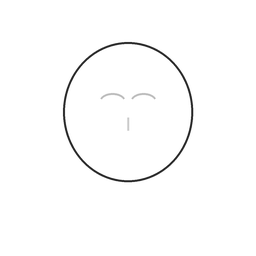
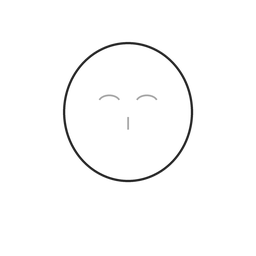
feat(assets): 生成 14 张面部素材（脸型 2、嘴 7、眼镜 5）
- 新增 scripts/make_face_assets.py：几何风格、2 倍超采样、可着色一律白底
- 脸型与嘴自动补 _tint.png 蒙版；眼镜不可着色，颜色写死
- 缩略图同步生成
- 测试里写死的素材张数改成按目录动态计算
- 快照基准因肤色素材变化重新生成

diff --git a/scripts/make_face_assets.py b/scripts/make_face_assets.py
@@ -1,0 +1,219 @@
+"""生成 E 负责的面部与服饰素材（脸型 / 嘴 / 眼镜）。
+
+这些是**几何风格的正式素材**，不是占位图：坐标按 1024 画布对齐脸中心 (512, 448)，
+可着色槽位一律白色打底（渲染时相乘上色不会发灰），并自动生成同名 `_tint.png` 蒙版。
+
+用法（项目根目录）：
+
+    python scripts/make_face_assets.py
+"""
+
+from __future__ import annotations
+
+from pathlib import Path
+
+from PIL import Image, ImageDraw
+
+CANVAS = 1024
+S = 2                                   # 超采样倍数，用来消除锯齿
+BIG = CANVAS * S
+
+INK = (40, 40, 40, 255)
+PAPER = (255, 255, 255, 255)
+SOFT = (168, 168, 168, 255)
+DARK = (43, 43, 43, 255)
+
+FACE_CENTER = (512, 448)
+
+
+def canvas() -> tuple[Image.Image, ImageDraw.ImageDraw]:
+    image = Image.new("RGBA", (BIG, BIG), (0, 0, 0, 0))
+    return image, ImageDraw.Draw(image)
+
+
+def box(x0: int, y0: int, x1: int, y1: int) -> tuple[int, int, int, int]:
+    """把 1024 坐标换算成超采样坐标。"""
+    return (x0 * S, y0 * S, x1 * S, y1 * S)
+
+
+def line_width(value: int) -> int:
+    return value * S
+
+
+def finish(image: Image.Image) -> Image.Image:
+    return image.resize((CANVAS, CANVAS), Image.LANCZOS)
+
+
+# --------------------------------------------------------------------------- #
+# 脸型：白色打底 + 灰阶五官，肤色靠渲染时相乘
+# --------------------------------------------------------------------------- #
+def draw_face(radius_x: int, radius_y: int) -> Image.Image:
+    image, draw = canvas()
+    cx, cy = FACE_CENTER
+
+    face = box(cx - radius_x, cy - radius_y, cx + radius_x, cy + radius_y)
+    draw.ellipse(face, fill=PAPER, outline=INK, width=line_width(9))
+
+    # 简化眉
+    draw.arc(box(cx - 120, cy - 70, cx - 30, cy - 10), start=200, end=340,
+             fill=SOFT, width=line_width(7))
+    draw.arc(box(cx + 30, cy - 70, cx + 120, cy - 10), start=200, end=340,
+             fill=SOFT, width=line_width(7))
+
+    # 简化鼻
+    draw.line([(cx * S, (cy + 20) * S), (cx * S, (cy + 70) * S)], fill=SOFT, width=line_width(7))
+
+    return finish(image)
+
+
+def draw_skin_base() -> Image.Image:
+    return draw_face(radius_x=260, radius_y=280)
+
+
+def draw_skin_slim() -> Image.Image:
+    return draw_face(radius_x=220, radius_y=290)
+
+
+# --------------------------------------------------------------------------- #
+# 嘴：7 种，白色打底（可着色）
+# --------------------------------------------------------------------------- #
+def draw_mouth_smile() -> Image.Image:
+    image, draw = canvas()
+    draw.arc(box(452, 560, 572, 650), start=20, end=160, fill=INK, width=line_width(9))
+    return finish(image)
+
+
+def draw_mouth_laugh() -> Image.Image:
+    image, draw = canvas()
+    draw.chord(box(462, 556, 562, 646), start=0, end=180, fill=PAPER, outline=INK,
+               width=line_width(9))
+    return finish(image)
+
+
+def draw_mouth_small() -> Image.Image:
+    image, draw = canvas()
+    draw.ellipse(box(492, 584, 532, 616), fill=PAPER, outline=INK, width=line_width(8))
+    return finish(image)
+
+
+def draw_mouth_pout() -> Image.Image:
+    image, draw = canvas()
+    draw.arc(box(470, 596, 554, 668), start=200, end=340, fill=INK, width=line_width(9))
+    return finish(image)
+
+
+def draw_mouth_tongue() -> Image.Image:
+    image, draw = canvas()
+    draw.chord(box(468, 560, 556, 640), start=0, end=180, fill=PAPER, outline=INK,
+               width=line_width(8))
+    draw.ellipse(box(486, 600, 538, 650), fill=SOFT, outline=INK, width=line_width(6))
+    return finish(image)
+
+
+def draw_mouth_cat() -> Image.Image:
+    image, draw = canvas()
+    draw.arc(box(462, 576, 512, 626), start=0, end=180, fill=INK, width=line_width(8))
+    draw.arc(box(512, 576, 562, 626), start=0, end=180, fill=INK, width=line_width(8))
+    return finish(image)
+
+
+def draw_mouth_flat() -> Image.Image:
+    image, draw = canvas()
+    draw.line([(478 * S, 604 * S), (546 * S, 604 * S)], fill=INK, width=line_width(9))
+    return finish(image)
+
+
+# --------------------------------------------------------------------------- #
+# 眼镜：5 副，不可着色，颜色写死
+# --------------------------------------------------------------------------- #
+EYE_Y = 500
+
+
+def draw_glasses_round() -> Image.Image:
+    image, draw = canvas()
+    for cx in (430, 594):
+        draw.ellipse(box(cx - 62, EYE_Y - 50, cx + 62, EYE_Y + 50), outline=DARK,
+                     width=line_width(10))
+    draw.line([(492 * S, EYE_Y * S), (532 * S, EYE_Y * S)], fill=DARK, width=line_width(10))
+    draw.line([(368 * S, EYE_Y * S), (300 * S, (EYE_Y - 20) * S)], fill=DARK, width=line_width(8))
+    draw.line([(656 * S, EYE_Y * S), (724 * S, (EYE_Y - 20) * S)], fill=DARK, width=line_width(8))
+    return finish(image)
+
+
+def draw_glasses_square() -> Image.Image:
+    image, draw = canvas()
+    for cx in (430, 594):
+        draw.rounded_rectangle(box(cx - 68, EYE_Y - 46, cx + 68, EYE_Y + 46), radius=18 * S,
+                               outline=DARK, width=line_width(10))
+    draw.line([(498 * S, EYE_Y * S), (526 * S, EYE_Y * S)], fill=DARK, width=line_width(10))
+    return finish(image)
+
+
+def draw_glasses_sun() -> Image.Image:
+    image, draw = canvas()
+    for cx in (430, 594):
+        draw.rounded_rectangle(box(cx - 68, EYE_Y - 46, cx + 68, EYE_Y + 46), radius=16 * S,
+                               fill=(30, 30, 30, 235), outline=DARK, width=line_width(10))
+    draw.line([(498 * S, EYE_Y * S), (526 * S, EYE_Y * S)], fill=DARK, width=line_width(10))
+    return finish(image)
+
+
+def draw_glasses_half() -> Image.Image:
+    image, draw = canvas()
+    for cx in (430, 594):
+        draw.arc(box(cx - 66, EYE_Y - 50, cx + 66, EYE_Y + 30), start=180, end=360,
+                 fill=DARK, width=line_width(10))
+        draw.line([((cx - 66) * S, EYE_Y * S), ((cx + 66) * S, EYE_Y * S)], fill=DARK,
+                  width=line_width(8))
+    return finish(image)
+
+
+def draw_glasses_goggle() -> Image.Image:
+    image, draw = canvas()
+    draw.rounded_rectangle(box(340, EYE_Y - 58, 684, EYE_Y + 52), radius=28 * S,
+                           outline=DARK, width=line_width(11))
+    draw.line([(340 * S, EYE_Y * S), (286 * S, (EYE_Y - 14) * S)], fill=DARK, width=line_width(10))
+    draw.line([(684 * S, EYE_Y * S), (738 * S, (EYE_Y - 14) * S)], fill=DARK, width=line_width(10))
+    return finish(image)
+
+
+# --------------------------------------------------------------------------- #
+# 清单与输出
+# --------------------------------------------------------------------------- #
+#: 相对 assets/ 的路径 -> (绘制函数, 是否需要 tint 蒙版)
+TARGETS: dict[str, tuple] = {
+    "01_skin/skin_base.png": (draw_skin_base, True),
+    "01_skin/skin_slim.png": (draw_skin_slim, True),
+    "07_mouth/mouth_smile_01.png": (draw_mouth_smile, True),
+    "07_mouth/mouth_laugh_01.png": (draw_mouth_laugh, True),
+    "07_mouth/mouth_small_01.png": (draw_mouth_small, True),
+    "07_mouth/mouth_pout_01.png": (draw_mouth_pout, True),
+    "07_mouth/mouth_tongue_01.png": (draw_mouth_tongue, True),
+    "07_mouth/mouth_cat_01.png": (draw_mouth_cat, True),
+    "07_mouth/mouth_flat_01.png": (draw_mouth_flat, True),
+    "09_glasses/glasses_round_01.png": (draw_glasses_round, False),
+    "09_glasses/glasses_square_01.png": (draw_glasses_square, False),
+    "09_glasses/glasses_sun_01.png": (draw_glasses_sun, False),
+    "09_glasses/glasses_half_01.png": (draw_glasses_half, False),
+    "09_glasses/glasses_goggle_01.png": (draw_glasses_goggle, False),
+}
+
+
+def main() -> int:
+    root = Path(__file__).resolve().parents[1] / "assets"
+    for relative, (factory, needs_tint) in TARGETS.items():
+        path = root / relative
+        path.parent.mkdir(parents=True, exist_ok=True)
+        factory().save(path, optimize=True)
+        size_kb = path.stat().st_size / 1024
+        print(f"已生成 assets/{relative}  ({size_kb:.1f} KB)")
+
+        if needs_tint:
+            mask = path.with_name(f"{path.stem}_tint.png")
+            Image.new("RGBA", (CANVAS, CANVAS), (255, 255, 255, 255)).save(mask)
+    print(f"共 {len(TARGETS)} 张素材")
+    return 0
+
+
+if __name__ == "__main__":
+    raise SystemExit(main())

diff --git a/tests/test_app.py b/tests/test_app.py
@@ -8,7 +8,8 @@ from __future__ import annotations
 import pytest
 
 from diyface import __version__
-from diyface.app import api_default_recipe, api_manifest, app, healthz, index
+from diyface.app import ASSETS_DIR, api_default_recipe, api_manifest, app, healthz, index
+from diyface.catalog import scan as scan_assets
 from diyface.models import ACTIVE, SLOTS
 
 
@@ -26,7 +27,8 @@ def test_manifest_lists_only_slots_that_have_assets() -> None:
     assert data["schema"] == 1
     assert z_values == sorted(z_values), "清单必须按 z 升序"
     assert set(ids) <= {slot.id.value for slot in ACTIVE}
-    assert ids == ["skin", "bangs", "eyes"], "当前仓库里只有这三个槽位有素材"
+    assert {"skin", "bangs", "eyes"} <= set(ids), "至少这三个槽位必须有素材"
+    assert ids == [slot.id.value for slot in ACTIVE if slot.id.value in ids]
     for slot in data["slots"]:
         assert slot["assets"], "既然出现在清单里，就必须至少有一个素材"
         assert set(slot["assets"][0]) == {"id", "file"}
@@ -46,7 +48,8 @@ def test_default_recipe_endpoint_picks_first_asset() -> None:
 
     assert data["slots"]["skin"] == "skin_base"
     assert data["slots"]["bangs"] == "bangs_straight_01"
-    assert data["slots"]["mouth"] is None, "没有素材的槽位保持为空"
+    assert data["slots"]["mouth"] is not None, "嘴已经有素材了，默认配方应当选中一张"
+    assert data["slots"]["hat"] is None, "还没有素材的槽位保持为空"
 
 
 def test_healthz_reports_counts() -> None:
@@ -54,8 +57,9 @@ def test_healthz_reports_counts() -> None:
 
     assert data["ok"] is True
     assert data["version"] == __version__
-    assert data["slots"] == 3
-    assert data["assets"] == 3
+    catalog = scan_assets(ASSETS_DIR)
+    assert data["slots"] == len(catalog)
+    assert data["assets"] == sum(len(assets) for assets in catalog.values())
 
 
 def test_index_renders_page_with_slot_list(fake_request) -> None:

diff --git a/tests/test_catalog.py b/tests/test_catalog.py
@@ -122,8 +122,8 @@ def test_scan_skips_tint_masks(assets_root: Path) -> None:
 
 
 def test_real_assets_directory_is_scannable() -> None:
-    """仓库里现有的素材必须能直接被扫出来（当前是 3 张占位图）。"""
+    """仓库里现有的素材必须能直接被扫出来。"""
     catalog = scan(ROOT / "assets")
 
-    assert set(catalog) == {SlotId.SKIN, SlotId.BANGS, SlotId.EYES}
-    assert sum(len(assets) for assets in catalog.values()) == 3
+    assert {SlotId.SKIN, SlotId.BANGS, SlotId.EYES} <= set(catalog)
+    assert sum(len(assets) for assets in catalog.values()) >= 3

diff --git a/tests/test_api.py b/tests/test_api.py
@@ -7,7 +7,10 @@ from __future__ import annotations
 
 import pytest
 
+from pathlib import Path
+
 from diyface.app import app
+from diyface.catalog import scan
 from diyface.models import SLOTS
 from tests import http_client
 
@@ -95,7 +98,8 @@ def test_healthz_over_http() -> None:
 
     assert response.status == 200
     assert response.json["ok"] is True
-    assert response.json["assets"] == 3
+    expected = sum(len(assets) for assets in scan(Path("assets")).values())
+    assert response.json["assets"] == expected
 
 
 def test_static_asset_is_served() -> None:

diff --git a/tests/test_cli.py b/tests/test_cli.py
@@ -6,6 +6,7 @@
 from __future__ import annotations
 
 import json
+import re
 from pathlib import Path
 
 import pytest
@@ -79,7 +80,7 @@ def test_verify_lists_slots(capsys: pytest.CaptureFixture[str]) -> None:
     assert code == 0
     output = capsys.readouterr().out
     assert "bangs" in output
-    assert "检查 3 张素材，问题 0 个" in output
+    assert re.search(r"检查 \d+ 张素材，问题 0 个", output), output
 
 
 def test_verify_fails_on_bad_asset(workdir: Path, capsys: pytest.CaptureFixture[str]) -> None:

diff --git a/tests/test_frontend.py b/tests/test_frontend.py
@@ -54,7 +54,9 @@ def test_index_inlines_manifest_that_matches_api() -> None:
 
     assert inline == api
     assert inline["schema"] == 1
-    assert [slot["id"] for slot in inline["slots"]] == ["skin", "bangs", "eyes"]
+    ids = [slot["id"] for slot in inline["slots"]]
+    assert {"skin", "bangs", "eyes"} <= set(ids)
+    assert [slot["z"] for slot in inline["slots"]] == sorted(slot["z"] for slot in inline["slots"])
     assert inline["default_recipe"]["slots"]["skin"] == "skin_base"
 
 
